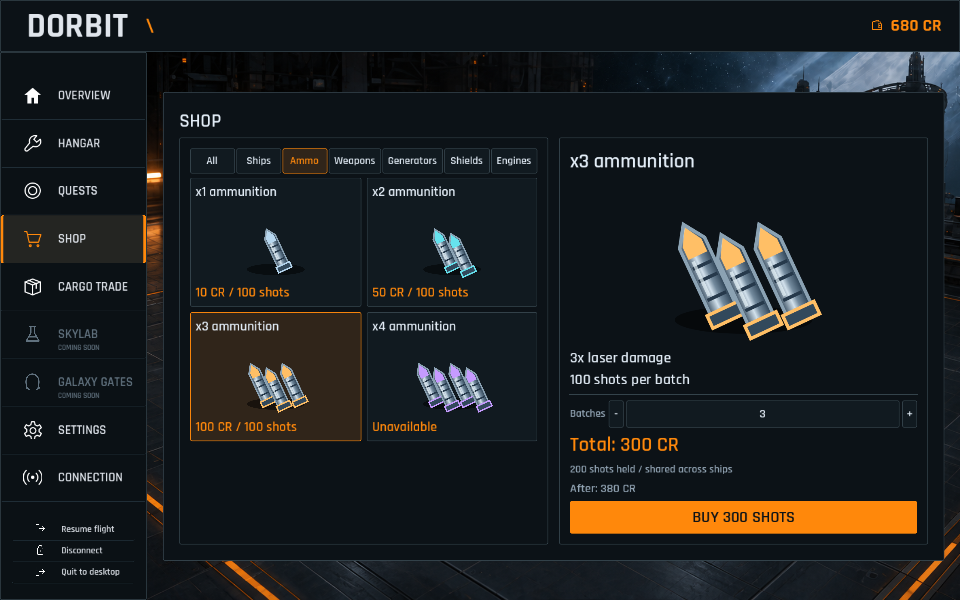
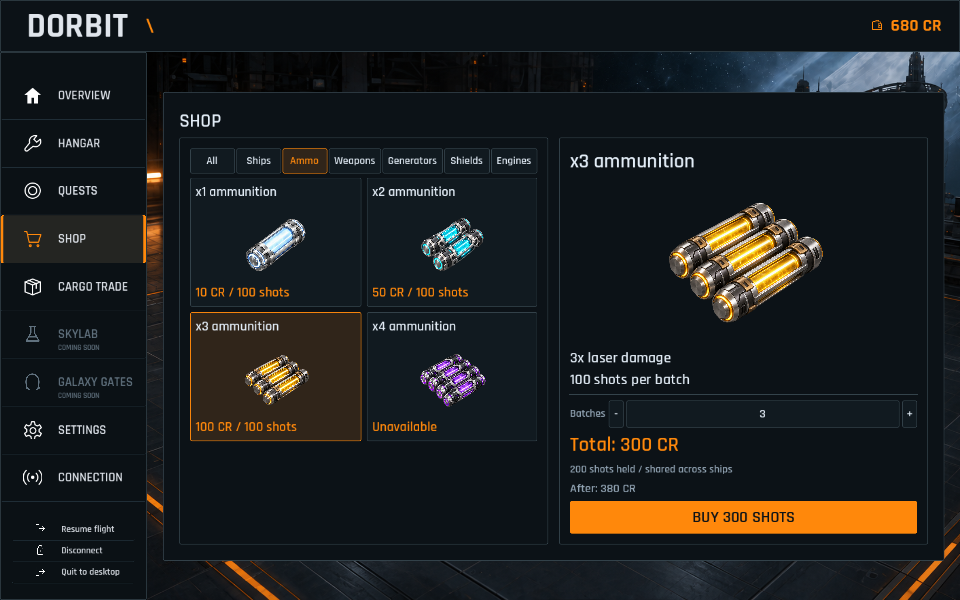
feat: add generated ammo artwork and matching laser colors

diff --git a/docs/ammo-art/generation-prompts.md b/docs/ammo-art/generation-prompts.md
@@ -1,0 +1,33 @@
+# Generated laser-ammunition artwork
+
+Created with the built-in ImageGen tool using transparent backgrounds. The original generated PNGs are installed without image edits in `assets/ui/ammo/x1.png` through `x4.png`. The HUD and shop share these textures; shot colors use the matching ammunition palette.
+
+Rendered firing previews: [x1](laser-x1.png), [x2](laser-x2.png), [x3](laser-x3.png), [x4](laser-x4.png). These use the real pilot firing path; the x4 rounds are granted only by the test fixture.
+
+## x1
+
+```text
+Use case: stylized-concept. Asset type: original premium 3D laser-ammunition inventory icon for the Dorbit space game, used at 40 pixels tall in a dark HUD and large in the shop. Transparent RGBA background, no backdrop, no text, no labels, no border, no watermark, no floor or cast shadow. A compact group of futuristic LASER ENERGY CARTRIDGES, not gun bullets: flat beveled metal end caps, inset luminous plasma chambers, silver titanium structural ribs and dark gunmetal machined housings. Polished hard-surface game render with physically plausible metal, crisp broad silhouette and restrained glow contained near the cartridge. Isometric three-quarter view, long axes diagonal from lower left to upper right, all units parallel, separated just enough to count. Center the complete subject in a square canvas, occupying 80% of its width/height, generous transparent safety margin, no clipping. Bright neutral studio key from upper left, soft fill, coherent product-icon style.
+Subject for this asset: Exactly ONE compact cylindrical energy cartridge, simple silver titanium housing, a broad pale ice-blue/white illuminated core and blue-white end ring. Starter ammunition; sturdy understated engineering.
+```
+
+## x2
+
+```text
+Use case: stylized-concept. Asset type: original premium 3D laser-ammunition inventory icon for the Dorbit space game, used at 40 pixels tall in a dark HUD and large in the shop. Transparent RGBA background, no backdrop, no text, no labels, no border, no watermark, no floor or cast shadow. A compact group of futuristic LASER ENERGY CARTRIDGES, not gun bullets: flat beveled metal end caps, inset luminous plasma chambers, silver titanium structural ribs and dark gunmetal machined housings. Polished hard-surface game render with physically plausible metal, crisp broad silhouette and restrained glow contained near the cartridge. Isometric three-quarter view, long axes diagonal from lower left to upper right, all units parallel, separated just enough to count. Center the complete subject in a square canvas, occupying 80% of its width/height, generous transparent safety margin, no clipping. Bright neutral studio key from upper left, soft fill, coherent product-icon style.
+Subject for this asset: Exactly TWO matching energy cartridges side by side, slight offset for depth, silver titanium ribs, bright CYAN luminous cores and cyan end rings. Slightly reinforced machined housings. Both complete units clearly countable.
+```
+
+## x3
+
+```text
+Use case: stylized-concept. Asset type: original premium 3D laser-ammunition inventory icon for the Dorbit space game, used at 40 pixels tall in a dark HUD and large in the shop. Transparent RGBA background, no backdrop, no text, no labels, no border, no watermark, no floor or cast shadow. A compact group of futuristic LASER ENERGY CARTRIDGES, not gun bullets: flat beveled metal end caps, inset luminous plasma chambers, silver titanium structural ribs and dark gunmetal machined housings. Polished hard-surface game render with physically plausible metal, crisp broad silhouette and restrained glow contained near the cartridge. Isometric three-quarter view, long axes diagonal from lower left to upper right, all units parallel, separated just enough to count. Center the complete subject in a square canvas, occupying 80% of its width/height, generous transparent safety margin, no clipping. Bright neutral studio key from upper left, soft fill, coherent product-icon style.
+Subject for this asset: Exactly THREE matching energy cartridges in a compact staggered side-by-side bundle, silver titanium ribs with small bronze retaining collars, bright AMBER/GOLD luminous cores and amber end rings. Each complete unit clearly countable.
+```
+
+## x4
+
+```text
+Use case: stylized-concept. Asset type: original premium 3D laser-ammunition inventory icon for the Dorbit space game, used at 40 pixels tall in a dark HUD and large in the shop. Transparent RGBA background, no backdrop, no text, no labels, no border, no watermark, no floor or cast shadow. A compact group of futuristic LASER ENERGY CARTRIDGES, not gun bullets: flat beveled metal end caps, inset luminous plasma chambers, silver titanium structural ribs and dark gunmetal machined housings. Polished hard-surface game render with physically plausible metal, crisp broad silhouette and restrained glow contained near the cartridge. Isometric three-quarter view, long axes diagonal from lower left to upper right, all units parallel, separated just enough to count. Center the complete subject in a square canvas, occupying 80% of its width/height, generous transparent safety margin, no clipping. Bright neutral studio key from upper left, soft fill, coherent product-icon style.
+Subject for this asset: Exactly FOUR matching energy cartridges in a compact staggered side-by-side bundle, silver titanium ribs and dark premium reinforced housings, bright VIOLET/PURPLE luminous cores and violet end rings. Rare high-energy ammunition, restrained purple plasma glow. Each complete unit clearly countable.
+```

diff --git a/README.md b/README.md
@@ -254,6 +254,11 @@ laser bonuses against aliens. Each successful volley uses one shot. Blocked shot
 use none. An empty selected type stops fire until you choose another type.
 The destination tracker is now at top center.
 
+The HUD and shop use generated metallic energy-cartridge artwork. Pilot lasers
+match their icons: ice-blue x1, cyan x2, amber x3 and violet x4; aliens fire red.
+Each network shot carries its firing ammo type so observers see the same color.
+See the [ImageGen prompts](docs/ammo-art/generation-prompts.md) for the asset source.
+
 Each new pilot receives **10,000 x1 shots**. Ammo is shared across owned ships and
 survives rescue, reconnects and server restart. In **Shop > Ammo**, x1/x2/x3 cost
 **10 / 50 / 100 credits per 100 shots**, as confirmed by the user. The quantity
@@ -269,7 +274,8 @@ rendered runs save shop and flight views under `build/validation/ammo-*.png`.
 
 Review the [flight ammo bar](docs/feedback/ammo-flight-1440.png) and
 [ammo shop](docs/feedback/ammo-shop-960.png). Windows ammo checks passed 99
-assertions headlessly and 104 with OpenGL; the rendered HUD replay passed 220,
+assertions headlessly and 108 with OpenGL, including all four network shot colors;
+combat effect checks passed 28 and the rendered color gallery passed. The HUD replay passed 220,
 the full Windows check helper passed, and seven Python provisioning tests passed.
 Human pricing and group-combat performance playtesting remain necessary; Linux
 and exported-client checks are left to CI.

diff --git a/GAME_PLAN.md b/GAME_PLAN.md
@@ -137,6 +137,12 @@ reserved from other control bindings and are inactive in menus. The destination
 tracker moves to top center. The ammo bar is a separate HUD control for the
 parallel HUD customization work to position later.
 
+The user requested generated metallic laser-energy cartridge pictures for the
+four ammo types. Their ice-blue, cyan, amber and violet colors also tint each
+pilot's beam and glow. The server sends the ammo type with each shot so other
+pilots see its firing color, including when selection changes between shots.
+Alien shots retain their hostile red color.
+
 ### Combat feedback and station navigation
 
 Implemented for Scout, Sentinel and Heavy encounters during Milestone 3:
